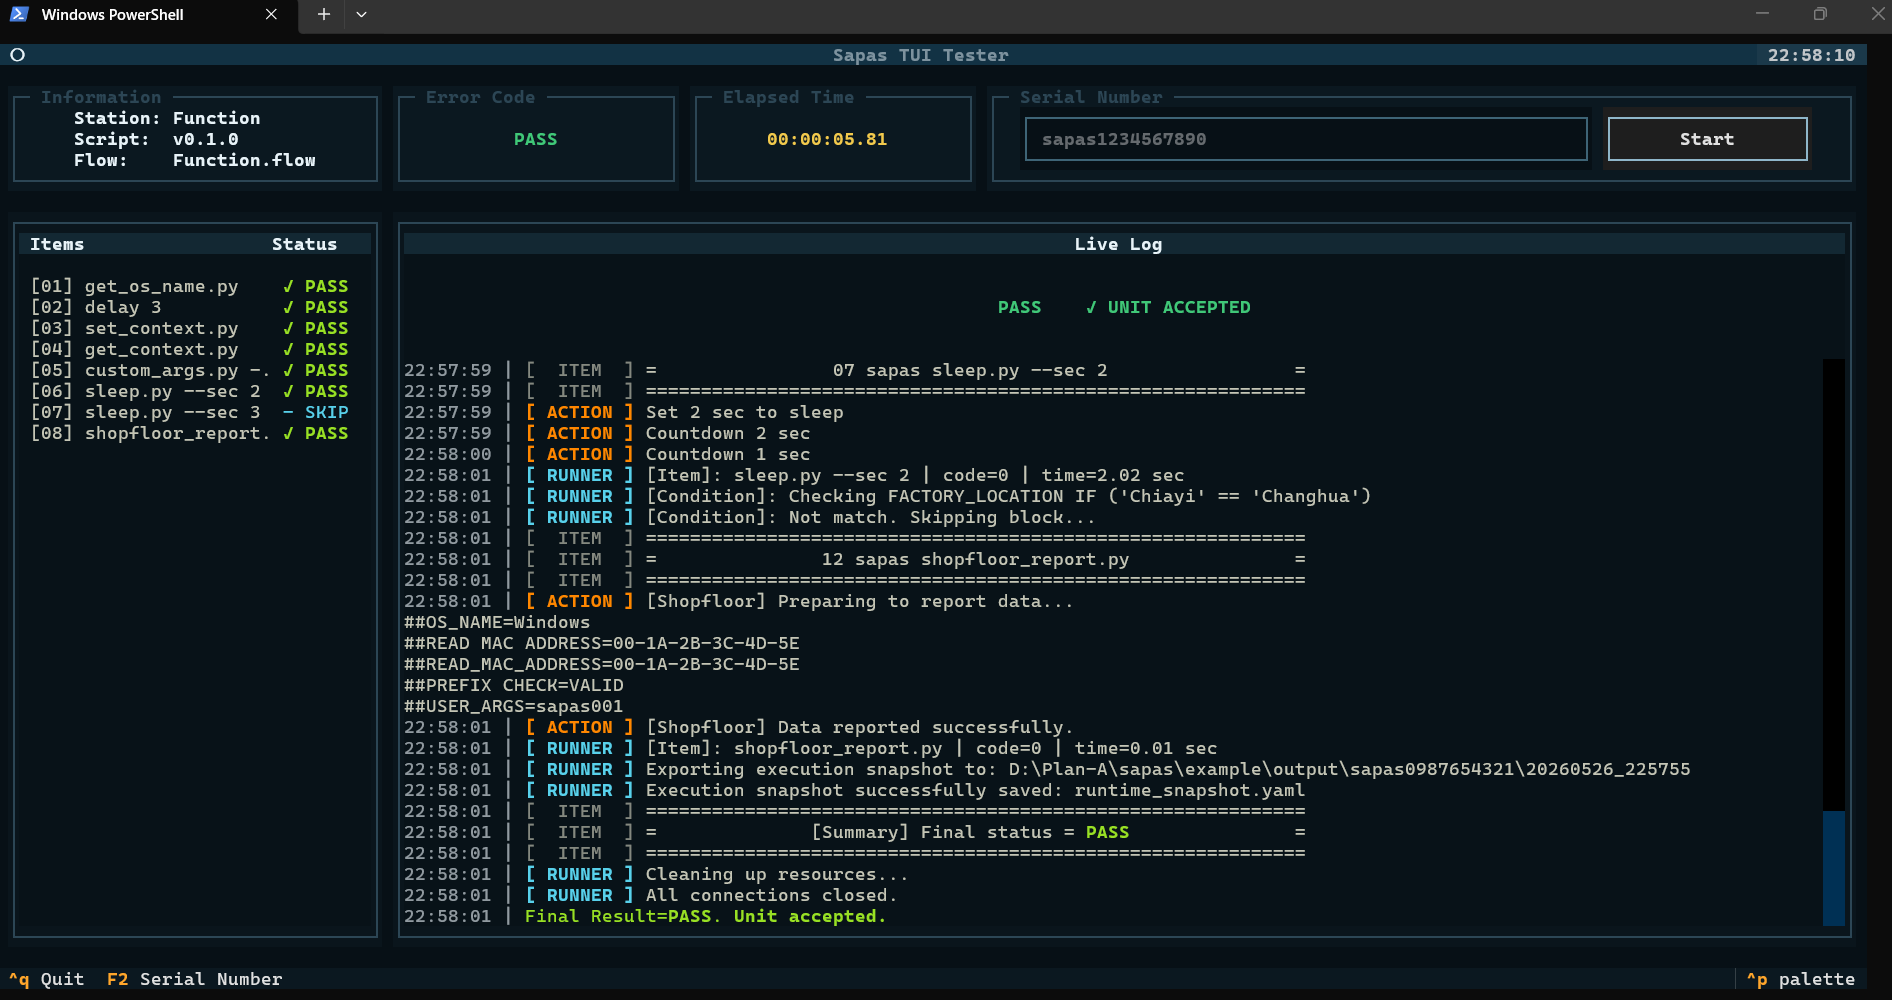
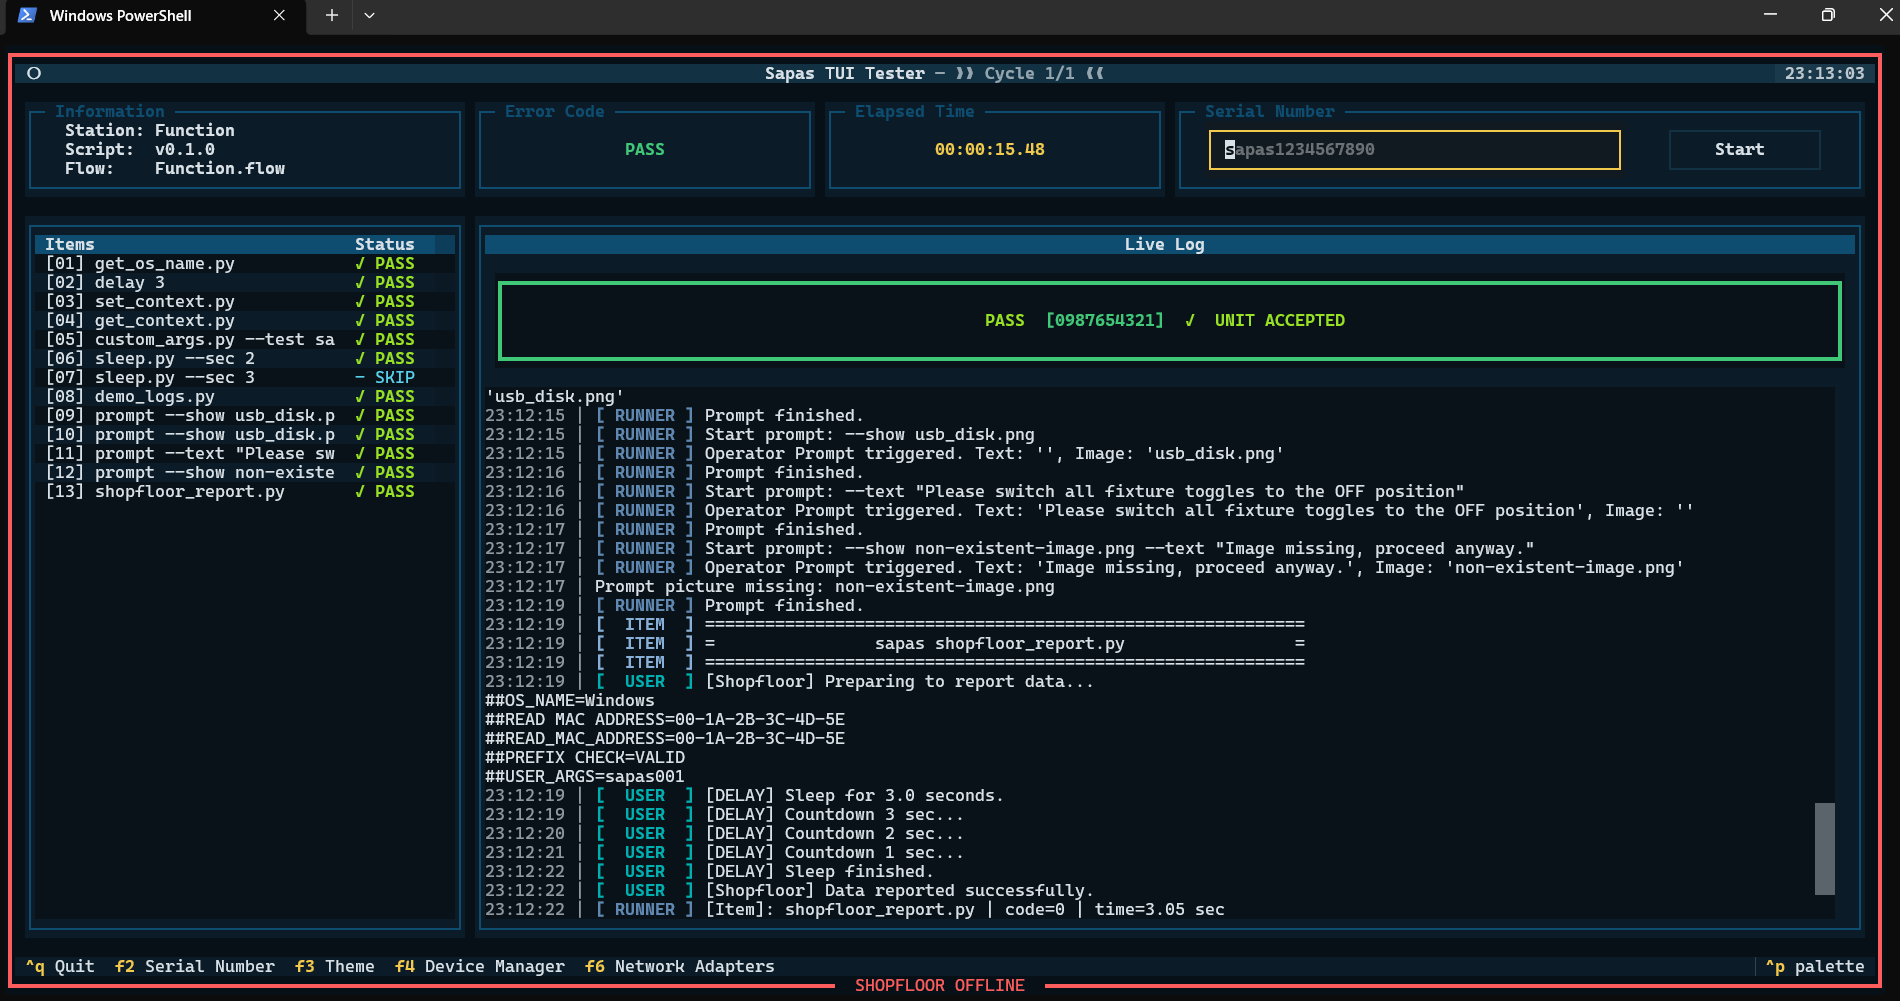
feat(core): introduce sapas.measure and unify user log tags
- Expose `sapas.measure` dynamically and deprecate direct `self.measure` access on TestItem (with backward compatibility warnings).
- Update all example scripts and API documentation to use `sapas.measure`.
- Change ActionItem default log tag from "ACTION" to "USER" for better user vs framework log distinction.
- Remove flow executor indices from runner log banners to avoid confusion with TUI panel numbering.
- Document `prompt_pictures/` structure in quick start guides.

Changed region(s): [[0.0, 0.0, 0.9979, 0.992]]

diff --git a/sapas/core/test_item.py b/sapas/core/test_item.py
@@ -121,7 +121,7 @@ class TestItem(BaseItem, ABC):
         item_names = self.pResult.get_item_names()
         
         # Create a proxy object.
-        self.measure = MeasureProxy(item_names)
+        self._measure_proxy = MeasureProxy(item_names)
         self.measure_value = []
 
         # Initialize the log
@@ -172,6 +172,21 @@ class TestItem(BaseItem, ABC):
         """Logs an error message."""
         self._log_impl(message, *args, tag="ERROR")
 
+    @property
+    def measure(self):
+        if not getattr(self, '_measure_deprecated_shown', False):
+            msg = (
+                "[DEPRECATION] self.measure is deprecated and will be removed in future versions.\n"
+                "             Please use sapas.measure instead for consistency."
+            )
+            self.warn(msg)
+            setattr(self, '_measure_deprecated_shown', True)
+        return self._measure_proxy
+
+    @measure.setter
+    def measure(self, value):
+        self._measure_proxy = value
+
     @abstractmethod
     def run_test(self) -> None:
         """
@@ -195,7 +210,7 @@ class TestItem(BaseItem, ABC):
         """
         # Before saving, convert the proxy dictionary back
         # into a list that matches the CSV column order.
-        self.measure_value = self.measure.to_list()
+        self.measure_value = self._measure_proxy.to_list()
 
         # Write the test values to the result file.
         ret = self.pResult.process_test_results(self.measure_file, self.result_file, self.measure_value)

diff --git a/sapas/__init__.py b/sapas/__init__.py
@@ -10,11 +10,13 @@ from sapas.core.builtins import sleep
 from typing import TYPE_CHECKING
 
 if TYPE_CHECKING:
-    # Let the IDE recognize the types of sapas.link and sapas.var.
+    # Let the IDE recognize the types of sapas.link, sapas.var, and sapas.measure.
     from .runtime.connection_manager import ConnectionManager
     from .runtime.runtime import VarProxy
+    from .core.measure_proxy import MeasureProxy
     link: ConnectionManager
     var: VarProxy
+    measure: MeasureProxy
 
 def arg(*args, **kwargs):
     """
@@ -37,10 +39,18 @@ def __getattr__(name):
         return ctx.link
     if name == "var":
         return ctx.var
+    if name == "measure":
+        active_item = ctx.get("ACTIVE_ITEM")
+        if active_item is None:
+            raise RuntimeError("No active TestItem running in execution context. Cannot access sapas.measure.")
+        measure = getattr(active_item, "_measure_proxy", None)
+        if measure is None:
+            raise RuntimeError("The active item does not have a measure proxy. Only TestItem supports measurements.")
+        return measure
     raise AttributeError(f"module '{__name__}' has no attribute '{name}'")
 
 __all__ = [
-    "ctx", "link", "var", "arg",
+    "ctx", "link", "var", "measure", "arg",
     "TestItem", "ActionItem", "BaseItem", "Message",
     "info", "warn", "error", "sleep"
 ]

diff --git a/sapas/core/action_item.py b/sapas/core/action_item.py
@@ -27,7 +27,7 @@ class ActionItem(BaseItem, ABC):
         """Defines the concrete execution behavior."""
         ...
 
-    def log(self, message: str, *args: any, tag: str = "ACTION") -> None:
+    def log(self, message: str, *args: any, tag: str = "USER") -> None:
         """
         Logs information during the test process. Supports formatted strings.
         
@@ -40,7 +40,7 @@ class ActionItem(BaseItem, ABC):
             setattr(self, '_log_deprecated_shown', True)
         self._log_impl(message, *args, tag=tag)
 
-    def _log_impl(self, message: str, *args: any, tag: str = "ACTION") -> None:
+    def _log_impl(self, message: str, *args: any, tag: str = "USER") -> None:
         """Internal logging implementation."""
         formatted_tag = f"[{tag:^8}]"
         full_message = f"{formatted_tag} {message}"
@@ -48,7 +48,7 @@ class ActionItem(BaseItem, ABC):
 
     def info(self, message: str, *args: any) -> None:
         """Logs an informational message."""
-        self._log_impl(message, *args, tag="ACTION")
+        self._log_impl(message, *args, tag="USER")
 
     def warn(self, message: str, *args: any) -> None:
         """Logs a warning message."""

diff --git a/example/Alishan/scripts/custom_args.py b/example/Alishan/scripts/custom_args.py
@@ -36,7 +36,7 @@ class ExArgs(TestItem):
         sapas.info(f"Fetched custom argument from user: {user_value}")
 
         # 3. Setting Measurement (Mapping to Criteria):
-        #    Assign the fetched value to `self.measure.<field_name>`.
+        #    Assign the fetched value to `sapas.measure.<field_name>`.
         #    CRITICAL: The attribute name (USER_ARGS) must strictly match the 'Key' 
         #    defined in your criteria.csv for the automated PASS/FAIL evaluation to work.
-        self.measure.USER_ARGS = user_value
+        sapas.measure.USER_ARGS = user_value

diff --git a/example/Alishan/scripts/demo_logs.py b/example/Alishan/scripts/demo_logs.py
@@ -4,10 +4,10 @@ from sapas import ActionItem
 class DemoLogs(ActionItem):
     """
     [Example] Demonstrates the use of sapas.info, sapas.warn, and sapas.error.
-    The tags will automatically appear as [ ACTION ] because this is an ActionItem.
+    The tags will automatically appear as [  USER  ] because this is a user-written ActionItem.
     """
     def run_action(self):
-        # 1. Standard informational log (Automatically tagged as [ ACTION ])
+        # 1. Standard informational log (Automatically tagged as [  USER  ])
         sapas.info("This is an informational message using sapas.info()")
         
         # 2. Warning message (Tagged as [  WARN  ])

diff --git a/example/Alishan/scripts/get_context.py b/example/Alishan/scripts/get_context.py
@@ -22,7 +22,7 @@ class VerifyMacAddress(TestItem):
         # Execute the subsequent test logic (e.g., format validation).
         if mac_addr.startswith("00-1A"):
             sapas.info("MAC prefix validation passed!")
-            self.measure['PREFIX CHECK'] = 'VALID'
+            sapas.measure['PREFIX CHECK'] = 'VALID'
         else:
             sapas.error("Invalid MAC prefix!")
-            self.measure['PREFIX CHECK'] = 'INVALID'
+            sapas.measure['PREFIX CHECK'] = 'INVALID'

diff --git a/example/Alishan/scripts/set_context.py b/example/Alishan/scripts/set_context.py
@@ -26,8 +26,8 @@ class ReadMacAddress(TestItem):
         # The name "READ_MAC_ADDRESS" comes from the item name defined in your criteria file.
 
         # Method 1: Key-value pair format (supports spaces/special characters, suitable for dynamic keys).
-        self.measure['READ MAC ADDRESS'] = mac_address
+        sapas.measure['READ MAC ADDRESS'] = mac_address
         # Method 2: Attribute-style format (more intuitive to write, but names cannot contain spaces).
-        self.measure.READ_MAC_ADDRESS = mac_address
+        sapas.measure.READ_MAC_ADDRESS = mac_address
 
         # Both methods above can write values into the measure field.

diff --git a/sapas/modules/log.py b/sapas/modules/log.py
@@ -23,10 +23,8 @@ def _log(tag, *args):
         if active_item:
             from sapas.core.test_item import TestItem
             from sapas.core.action_item import ActionItem
-            if isinstance(active_item, TestItem):
+            if isinstance(active_item, (TestItem, ActionItem)):
                 tag = 'USER'
-            elif isinstance(active_item, ActionItem):
-                tag = 'ACTION'
 
     formatted_tag = f"[{tag:^8}]"
     

diff --git a/example/Alishan/scripts/get_os_name.py b/example/Alishan/scripts/get_os_name.py
@@ -27,5 +27,5 @@ class OsName(TestItem):
 
         # Write the measured value.
         # The name "OS_NAME" comes from the item name defined in your criteria file.
-        self.measure.OS_NAME = extracted_name
+        sapas.measure.OS_NAME = extracted_name
         sapas.info(f"Extracted OS Name for Measurement: {extracted_name}")

diff --git a/example/Alishan/scripts/test_via_ssh.py b/example/Alishan/scripts/test_via_ssh.py
@@ -34,4 +34,4 @@ class GetCpuSerialNumber(TestItem):
 
         # 4. Assign the parsed value to the measure attribute. 
         #    The framework will automatically validate this against the Criteria file later.
-        self.measure.CPU_SN = match.group(0)
+        sapas.measure.CPU_SN = match.group(0)

diff --git a/example/Alishan/scripts/test_via_udp.py b/example/Alishan/scripts/test_via_udp.py
@@ -28,4 +28,4 @@ class GetMcuVersion(TestItem):
 
         # Extract and log the MCU SW revision
         ver_match = re.search(r"SW Revision\s+:\s+([0-9.]+)", resultMessage)
-        self.measure.MCU_SW_VERSION = ver_match.group(1) if ver_match else 'Exception'
+        sapas.measure.MCU_SW_VERSION = ver_match.group(1) if ver_match else 'Exception'

diff --git a/sapas/core/runner.py b/sapas/core/runner.py
@@ -354,7 +354,7 @@ class Runner():
                         self.item_index += 1
                         continue
 
-                    log_banner(f'{self.item_index:02d} sapas {self.current_item}')
+                    log_banner(f'sapas {self.current_item}')
                     return_code = self._run_test_script(self.current_item)
 
                     # Any value other than 0 (PASS) indicates an issue